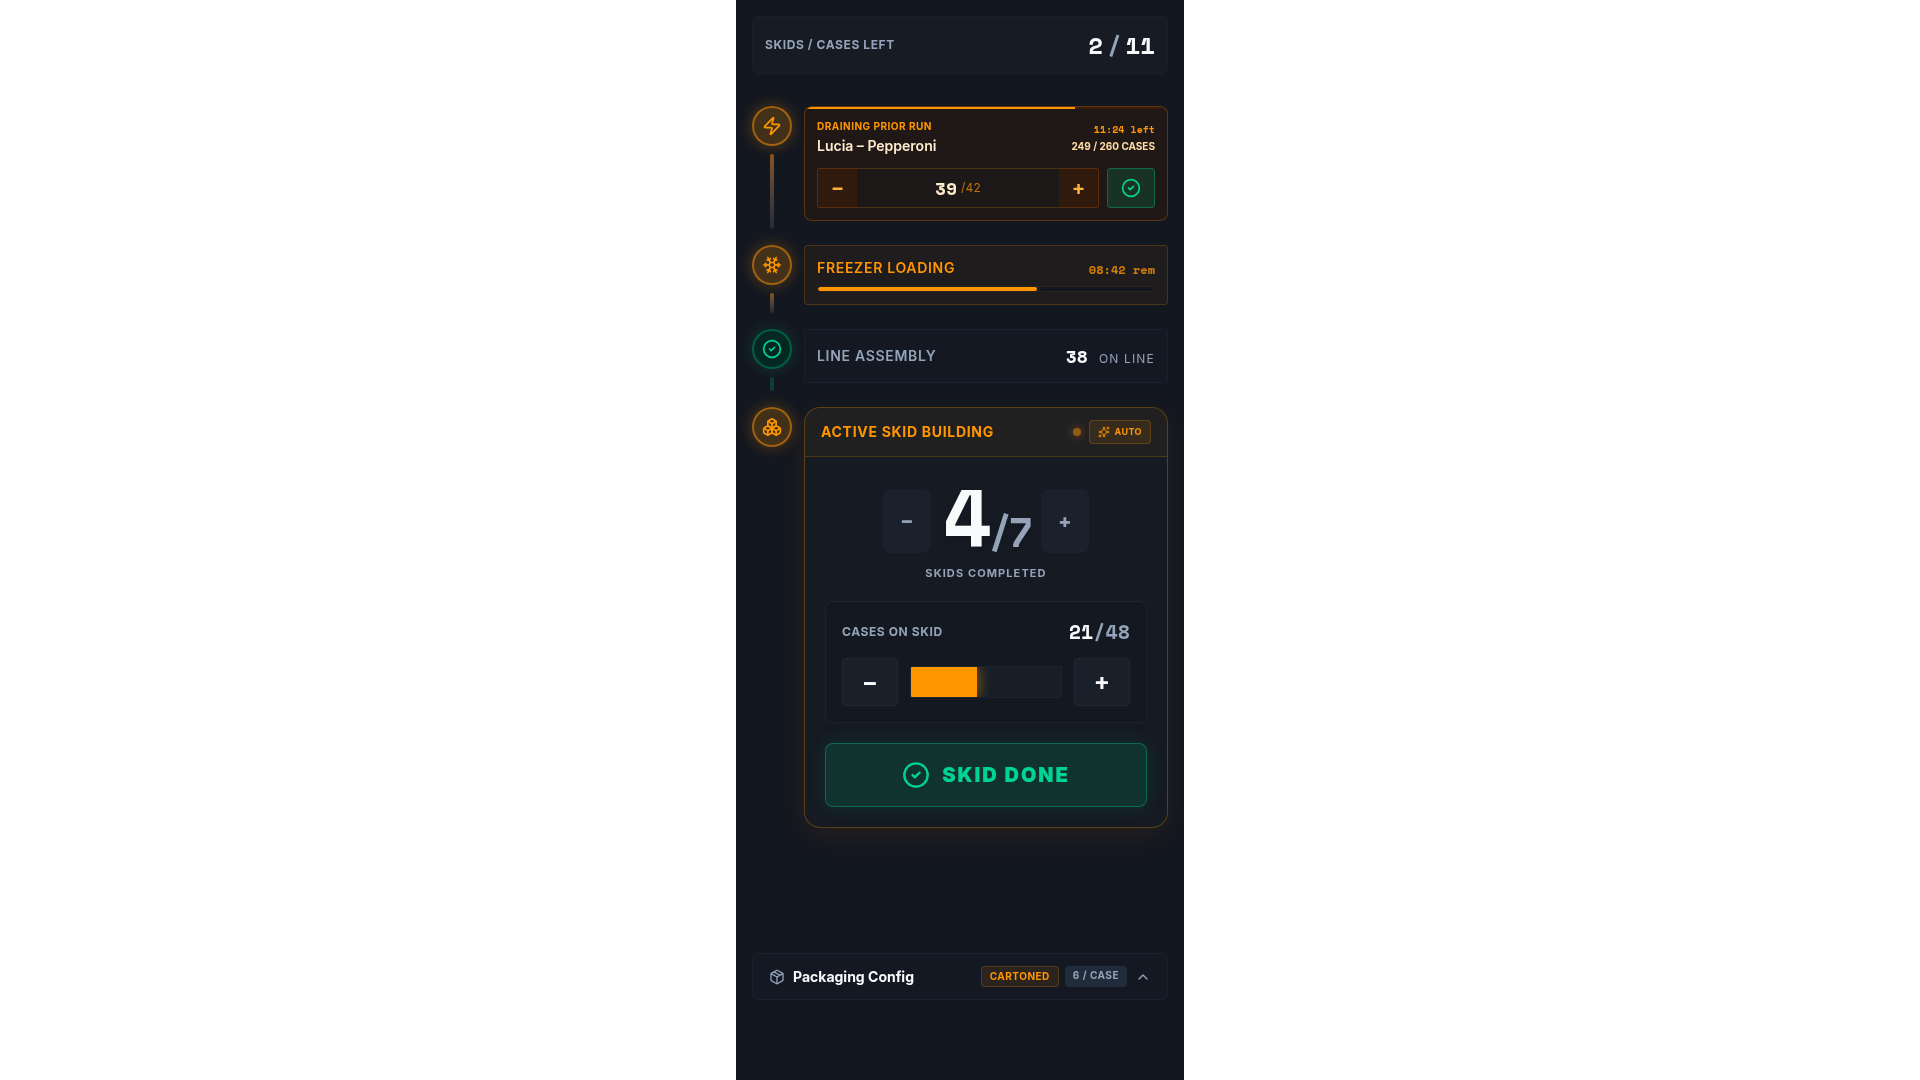
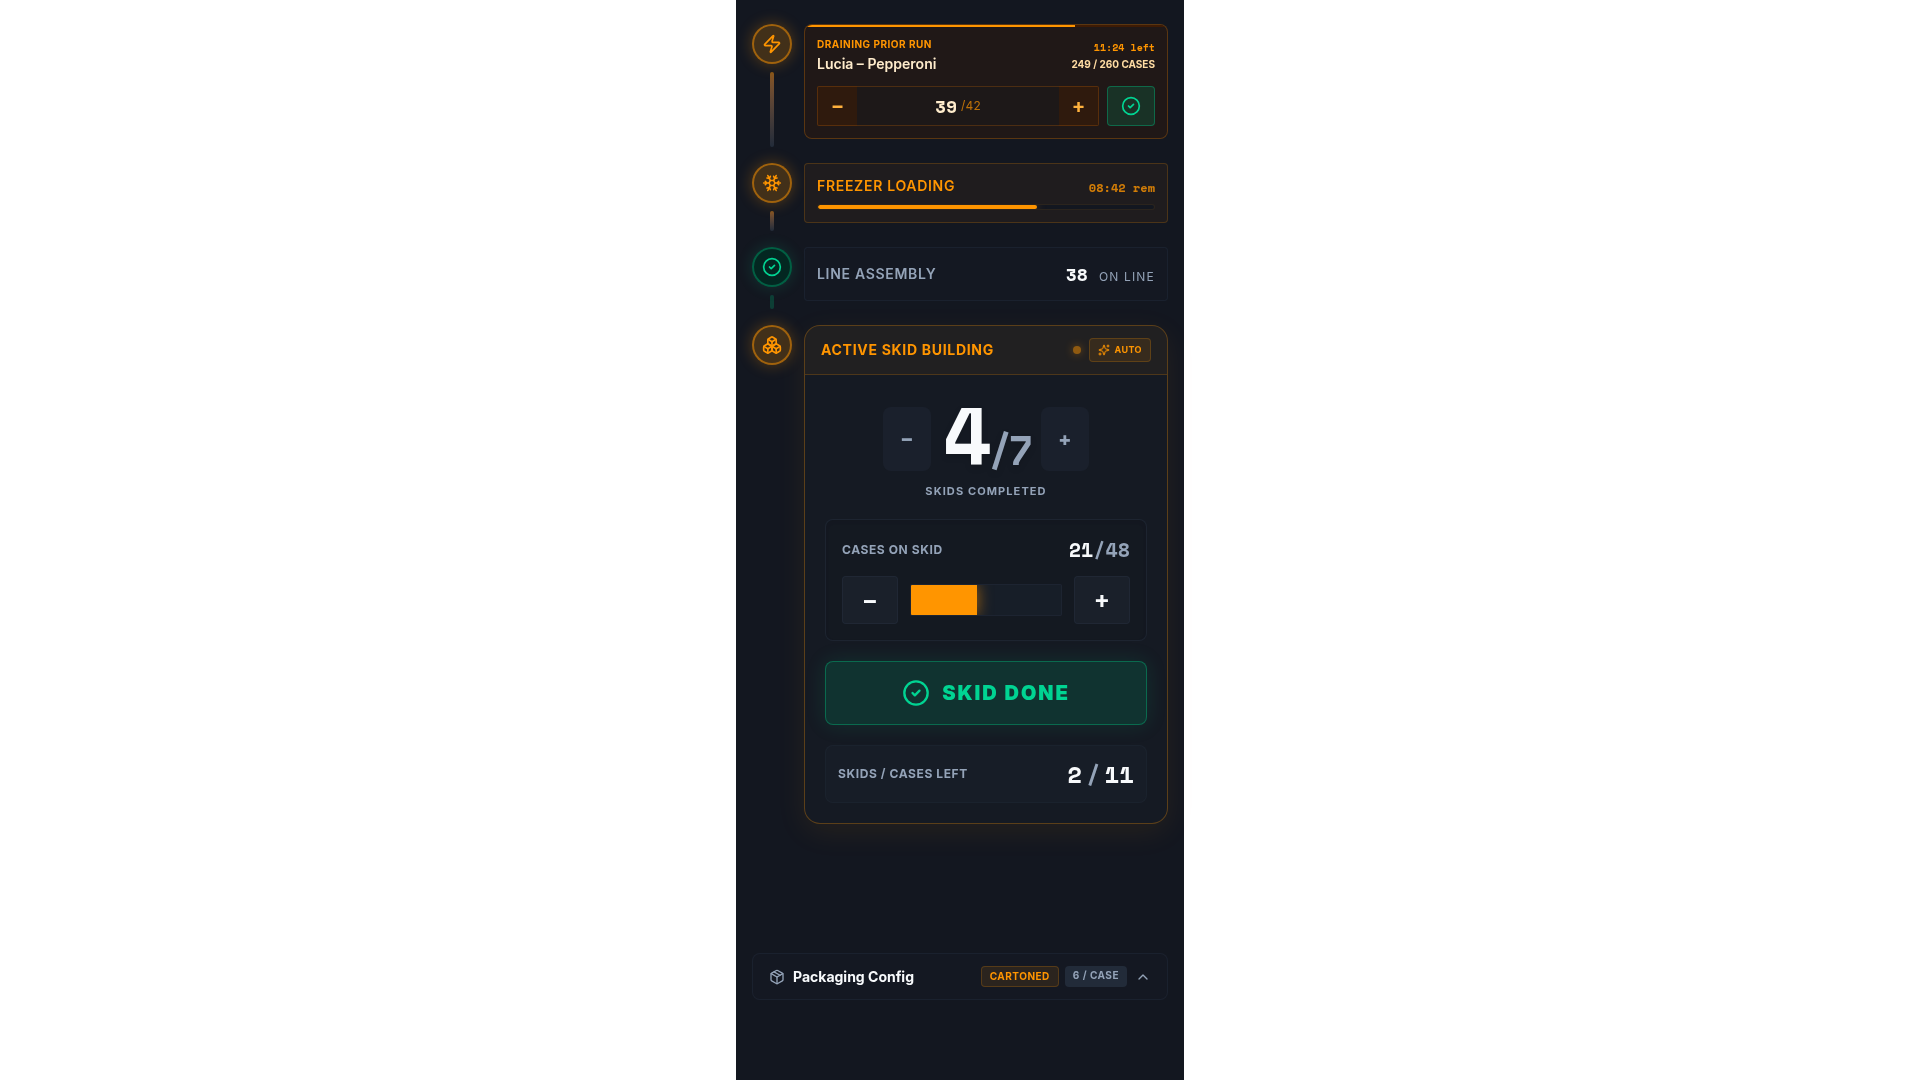
Move skid and case progress display below done button
Move the "Skids / Cases Left" metric from the top dashboard into the "Active Skid Building" section, positioning it directly below the "Skid Done" button in VariantAB.tsx.

Replit-Commit-Author: Agent
Replit-Commit-Session-Id: 280a9ba2-7370-423b-ad6b-aa0dbc6b3488
Replit-Commit-Checkpoint-Type: full_checkpoint
Replit-Commit-Event-Id: 8898fc6a-9a71-4ea8-bab4-7eb30ea39047
Replit-Commit-Screenshot-Url: https://storage.googleapis.com/screenshot-production-us-central1/de4fa38f-10e1-481d-ab62-4ad238a33ebf/280a9ba2-7370-423b-ad6b-aa0dbc6b3488/M0w7AWL
Replit-Helium-Checkpoint-Created: true

diff --git a/artifacts/mockup-sandbox/src/components/mockups/tab-packaging/VariantAB.tsx b/artifacts/mockup-sandbox/src/components/mockups/tab-packaging/VariantAB.tsx
@@ -140,18 +140,6 @@ export function VariantAB() {
   return (
     <div className="pkg-tab-scope min-h-screen bg-background text-foreground p-4 max-w-md mx-auto flex flex-col pb-20">
       
-      {/* ── Top Dashboard Metrics ── */}
-      <div className="mb-6">
-        <div className="bg-muted/20 border border-border/30 rounded-xl p-3 flex items-center justify-between">
-          <span className="text-xs font-bold uppercase tracking-wider text-muted-foreground">Skids / Cases Left</span>
-          <span className="text-2xl font-mono font-black tabular-nums text-foreground">
-            {fmtNum(Math.floor(calc.casesLeftToRun / casesPerSkid), 0)}
-            <span className="text-muted-foreground mx-1">/</span>
-            {fmtNum(calc.casesLeftToRun % casesPerSkid, 0)}
-          </span>
-        </div>
-      </div>
-
       {/* ── Pipeline Story ── */}
       <div className="flex-1 flex flex-col">
         
@@ -320,6 +308,15 @@ export function VariantAB() {
                   <CheckCircle2 className="w-7 h-7" />
                   Skid Done
                 </button>
+
+                <div className="bg-muted/20 border border-border/30 rounded-xl p-3 flex items-center justify-between">
+                  <span className="text-xs font-bold uppercase tracking-wider text-muted-foreground">Skids / Cases Left</span>
+                  <span className="text-2xl font-mono font-black tabular-nums text-foreground">
+                    {fmtNum(Math.floor(calc.casesLeftToRun / casesPerSkid), 0)}
+                    <span className="text-muted-foreground mx-1">/</span>
+                    {fmtNum(calc.casesLeftToRun % casesPerSkid, 0)}
+                  </span>
+                </div>
               </div>
             </div>
 
